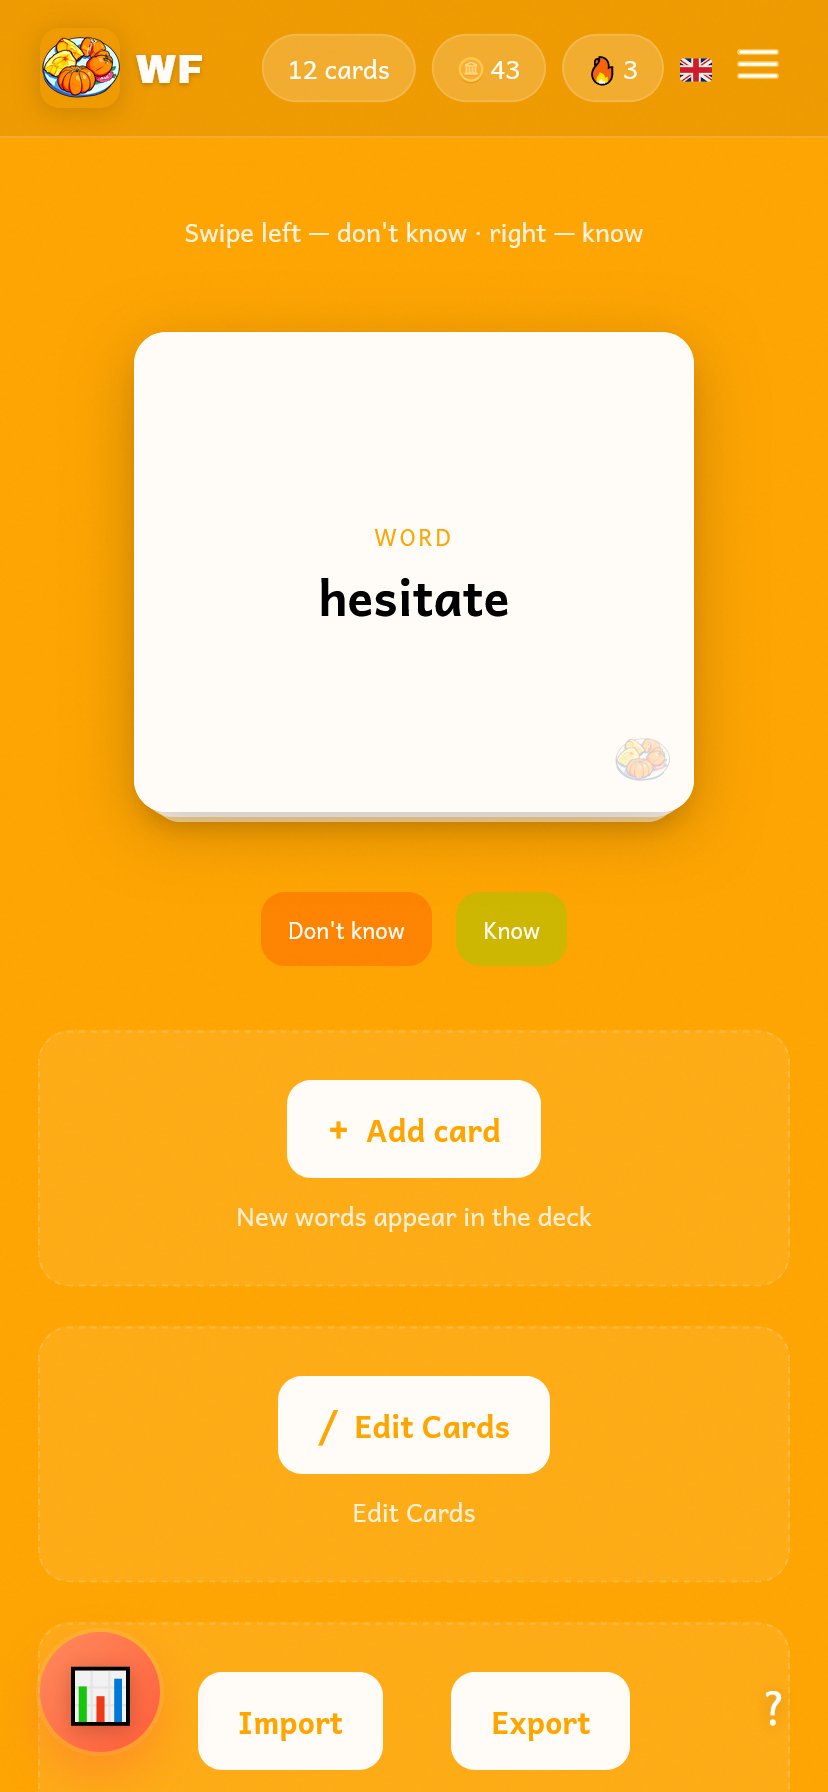
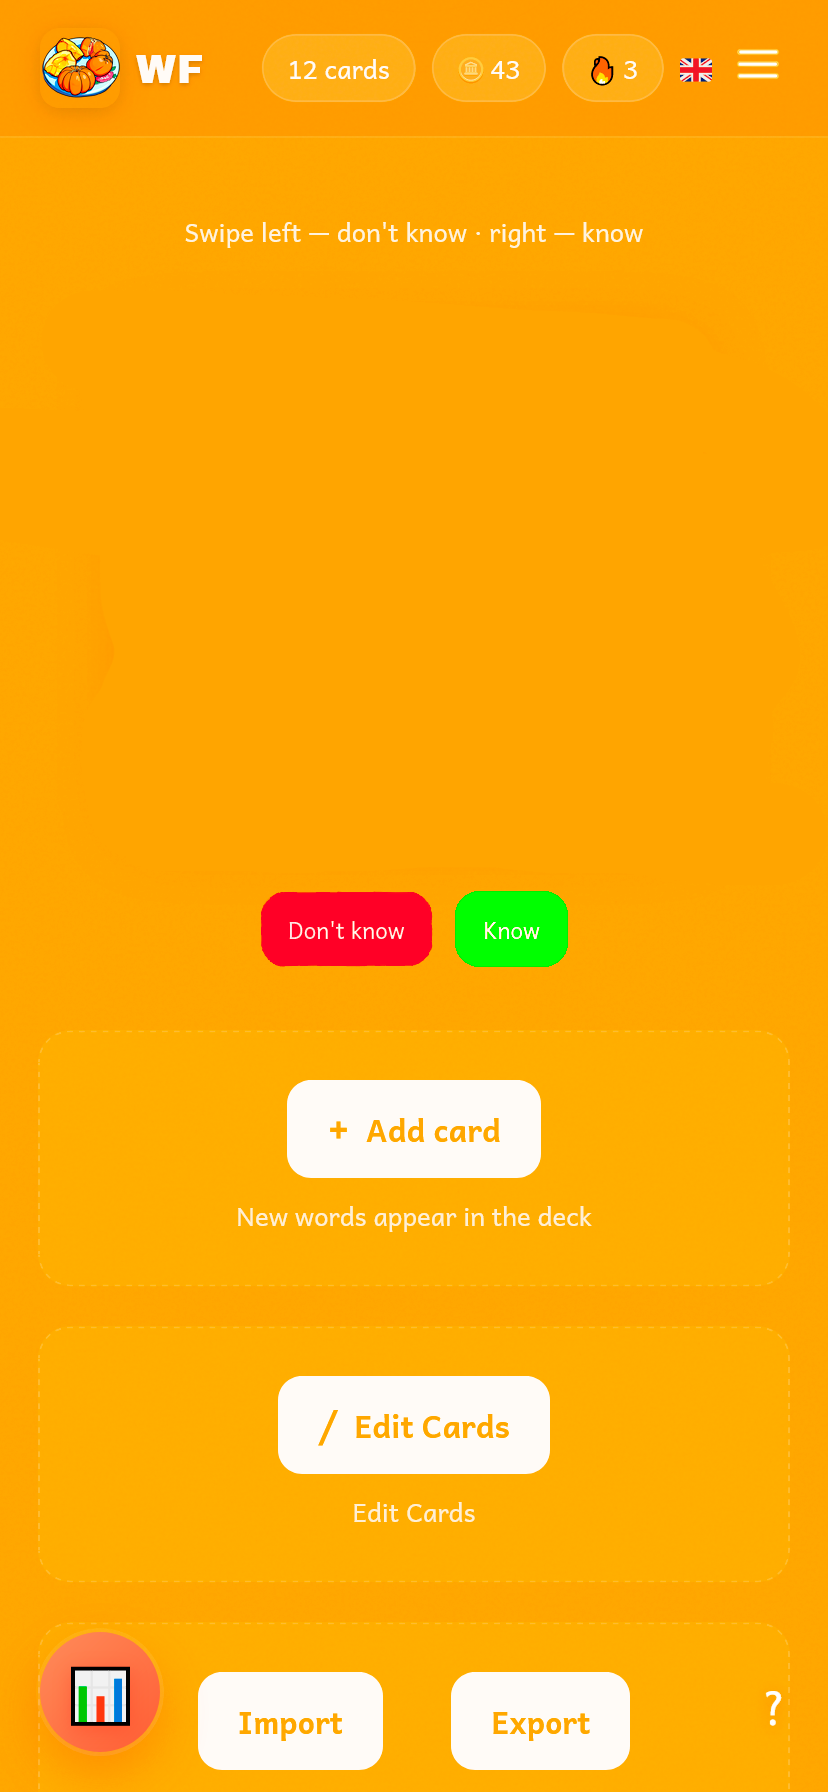
Day 142: landing page redesign + cosmic animations + dark theme default
+ added 500 floating particles with variable speed - looks cosmic
+ fixed multiple bugs across the landing
+ added new info blocks
+ implemented parallax effect for interactive animation of cards
+ added infinite card flip animation to show how WordForge works
+ dark theme is now default
+ update demo.png
+ added new tasks

diff --git a/demo.html b/demo.html
@@ -71,11 +71,13 @@
                             <div class="side">
                                 <div class="word">Hello</div>
                                 <div class="translation">Tap to learn</div>
+                                <img src="assets/pic/logo_png_cr.png" alt="" style="width: 25px; height: 25px; opacity: 0.5; position: absolute; float: left; margin-top: 150px; margin-left: 175px;">
                             </div>
 
                             <div class="side back">
                                 <div class="word">Привет</div>
                                 <div class="translation">+5 Coins</div>
+                                <img src="assets/pic/logo_png_cr.png" alt="" style="width: 25px; height: 25px; opacity: 0.5; position: absolute; float: left; margin-top: 150px; margin-left: 175px;">
                             </div>
                         </div>
                     </div>
@@ -89,6 +91,43 @@
         <div class="container">
 
             <div class="title fade">
+                <h2>Steps to learn languages</h2>
+            </div>
+
+            <div class="grid-steps fade">
+                <div class="step">
+                    <div class="title-step">1. Vocabualary</div>
+                    <div>Build your vocabulary first — the foundation of everything. Without words, there's nothing to connect with grammar or use in practice. Focus on the most frequent words, repeat them daily, and train your brain to recognize them instantly. This is the base that makes every other step easier.</div>
+                </div>
+                <div class="step">
+                    <div class="title-step">2. Grammer</div>
+                    <div>Learn how the language fits together — not rules, but patterns. Grammar gives your words a framework to live in, turning random vocabulary into clear, meaningful messages. Without it, you have bricks but no blueprint.</div>
+                </div>
+                <div class="step">
+                    <div class="title-step">3. Practice</div>
+                    <div>Use the language every day — listen, speak, read, write, make mistakes, and try again. Every real conversation rewires your brain to think faster and react naturally. You stop studying the language and start living it.</div>
+                </div>
+            </div>
+
+        </div>
+    </section>
+    <section>
+        <div class="container">
+
+            <div class="title fade">
+                <h2>Vocabulary is our element</h2>
+            </div>
+
+            <div class="grid fade">
+                    
+            </div>
+
+        </div>
+    </section>
+    <section>
+        <div class="container">
+
+            <div class="title fade">
                 <h2>Features</h2>
             </div>
 
@@ -96,38 +135,50 @@
 
                 <div class="feature fade">
                     <div class="icon">🃏</div>
-                    <h3>Interactive Flashcards</h3>
-                    <p>Learn faster with visual card repetition.</p>
+                    <div>
+                        <h3>Interactive Flashcards</h3>
+                        <p>Learn faster with visual card repetition.</p>
+                    </div>
                 </div>
 
                 <div class="feature fade">
                     <div class="icon">🪙</div>
-                    <h3>Coin Rewards</h3>
-                    <p>Earn coins while building your vocabulary.</p>
+                    <div>
+                        <h3>Coin Rewards</h3>
+                        <p>Earn coins while building your vocabulary.</p>
+                    </div>
                 </div>
 
                 <div class="feature fade">
                     <div class="icon">🔥</div>
-                    <h3>Streak Tracking</h3>
-                    <p>Stay consistent and keep your streak alive.</p>
+                    <div>
+                        <h3>Streak Tracking</h3>
+                        <p>Stay consistent and keep your streak alive.</p>
+                    </div>
                 </div>
 
                 <div class="feature fade">
                     <div class="icon">🌍</div>
-                    <h3>Multi-language</h3>
-                    <p>Supports EN, RU, DE, PL, SR and JA.</p>
+                    <div>
+                        <h3>Multi-language</h3>
+                        <p>Supports EN, RU, DE, PL, SR and JA.</p>
+                    </div>
                 </div>
 
                 <div class="feature fade">
                     <div class="icon">📊</div>
-                    <h3>Stats Dashboard</h3>
-                    <p>Track words learned and progress over time.</p>
+                    <div>
+                        <h3>Stats Dashboard</h3>
+                        <p>Track words learned and progress over time.</p>
+                    </div>
                 </div>
 
                 <div class="feature fade">
                     <div class="icon">⭐</div>
-                    <h3>Export Tools</h3>
-                    <p>Export vocabulary to Anki or PDF.</p>
+                    <div>
+                        <h3>Export Tools</h3>
+                        <p>Export vocabulary to Anki or PDF.</p>
+                    </div>
                 </div>
 
             </div>
@@ -135,6 +186,37 @@
         </div>
     </section>
 
+    <section id="how">
+        <div class="container">
+
+            <div class="title fade">
+                <h2>How it works</h2>
+            </div>
+
+            <div class="steps">
+
+                <div class="step fade">
+                    <div class="step-number">1</div>
+                    <h3>Add a word</h3>
+                    <p>Create your own personal vocabulary list.</p>
+                </div>
+
+                <div class="step fade">
+                    <div class="step-number">2</div>
+                    <h3>Learn with cards</h3>
+                    <p>Practice using interactive flashcards.</p>
+                </div>
+
+                <div class="step fade">
+                    <div class="step-number">3</div>
+                    <h3>Track progress</h3>
+                    <p>See streaks, coins and learning statistics.</p>
+                </div>
+
+            </div>
+
+        </div>
+    </section>
     <section id="how">
         <div class="container">
 
@@ -174,7 +256,7 @@
 
             <p>No download. No registration.</p>
 
-            <a href="#" class="btn">Open WordForge</a>
+            <a href="#" class="btn" style="margin-top: 500px;">Open WordForge</a>
 
         </div>
     </section>

diff --git a/assets/js/demo/demo.js b/assets/js/demo/demo.js
@@ -1,24 +1,29 @@
-// THEME
-const toggle = document.getElementById("themeToggle");
-
-toggle.onclick = () => {
-    document.body.classList.toggle("dark");
-};
-
 // PARTICLES
 const particles = document.getElementById("particles");
+// THEME
+const toggle = document.getElementById("themeToggle");
+document.body.classList.toggle("dark");
+toggle.onclick = () => {
+    document.body.classList.toggle("dark");
 
-for (let i = 0; i < 50; i++) {
+    const childDivs = particles.querySelectorAll('div');
+    childDivs.forEach((div)=> {
+        if(document.body.classList.contains('dark')) div.style.background = "white";
+        else div.style.background = "black";
+    });
+};
+
+for (let i = 0; i < 500; i++) {
     const p = document.createElement("div");
     p.classList.add("particle");
 
     p.style.left = Math.random() * 100 + "%";
-    p.style.animationDuration = 8 + Math.random() * 8 + "s";
+    p.style.animationDuration = 3 + Math.random() * 8 + "s";
     p.style.animationDelay = Math.random() * 5 + "s";
-    if(document.body.background === "white") {
-        p.style.background = "black";
-    } else {
+    if(document.body.classList.contains('dark')) {
         p.style.background = "white";
+    } else {
+        p.style.background = "black";
     }
     particles.appendChild(p);
 }
@@ -46,3 +51,33 @@ document.querySelectorAll(".fade").forEach(el => {
     observer.observe(el);
 });
 
+
+//mouse paralax
+const card = document.querySelector(".phone");
+let mouseX = 0;
+let mouseY = 0;
+
+let currentX = 0;
+let currentY = 0;
+
+document.addEventListener("mousemove",(e)=>{
+    const rect = card.getBoundingClientRect();
+
+    mouseX = (e.clientX - rect.left - rect.width/2)/15;
+    mouseY = (e.clientY - rect.top - rect.height/2)/15;
+});
+
+function animate(){
+
+    currentX += (mouseX-currentX)*0.1;
+    currentY += (mouseY-currentY)*0.1;
+
+    card.style.transform = `
+        rotateY(${currentX}deg)
+        rotateX(${-currentY}deg)
+    `;
+
+    requestAnimationFrame(animate);
+}
+
+animate();

diff --git a/assets/css/demo/style.css b/assets/css/demo/style.css
@@ -76,7 +76,7 @@ body {
     position: absolute;
     width: 4px;
     height: 4px;
-    background: white;
+    background: black;
     opacity: .3;
     border-radius: 50%;
     animation: float 10s linear infinite;
@@ -278,8 +278,11 @@ select,
 .phone-div {
     display: flex;
     flex-direction: column;
-    transform: scale(1.5);
+    transform: scale(1.2);
     margin-left: 40%;
+    transform-style: preserve-3d;
+    transition: transform 0.1s;
+    perspective: 1000000px;
 }
 
 .phone-div h2 {
@@ -297,12 +300,12 @@ select,
     padding: 12px;
 
     border-radius: 40px;
-    border: var(--text) 10px solid;
+    border: black 10px solid;
     overflow:hidden;
 
     transform:scale(0.8);
 
-    box-shadow:0 30px 60px rgba(0,0,0,.3);
+    box-shadow:0 10px 30px orange;
 }
 
 .phone img{
@@ -350,8 +353,33 @@ section {
 
 .grid {
     display: grid;
-    grid-template-columns: repeat(auto-fit, minmax(260px, 1fr));
+    grid-template-columns: repeat(2, minmax(260px, 1fr));
     gap: 25px;
+}
+
+.grid-steps {
+    display: grid;
+    grid-template-columns: repeat(3, minmax(260px, 1fr));
+    gap: 25px;
+}
+
+.grid-steps .step {
+    border: #0d1117 1px solid;
+}
+
+.grid-steps.show {
+    gap: 15px;
+}
+
+.step .title-step {
+    font-weight: bold;
+    font-size: 35px;
+}
+
+.step {
+    display: flex;
+    flex-direction: column;
+    gap: 10px;
 }
 
 .feature {
@@ -361,6 +389,9 @@ section {
     backdrop-filter: blur(20px);
     border: 1px solid var(--border);
     transition: .3s;
+
+    display: flex;
+    gap: 20px;
 }
 
 .feature:hover {
@@ -477,5 +508,9 @@ footer {
 
     .hero-buttons {
         justify-content: center;
+    }
+
+    .grid {
+        grid-template-columns: repeat(auto-fit, minmax(260px, 1fr));
     }
 }